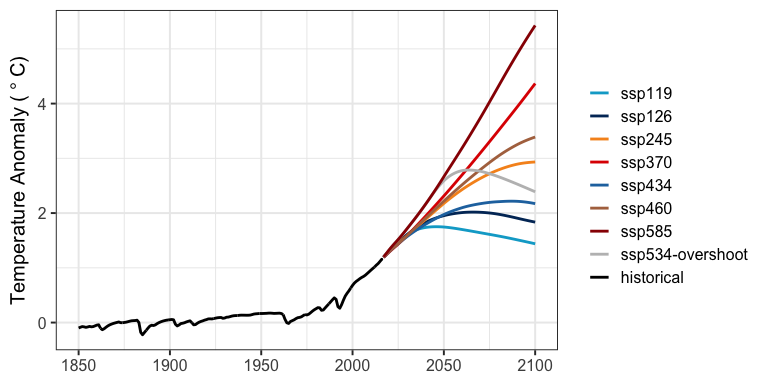
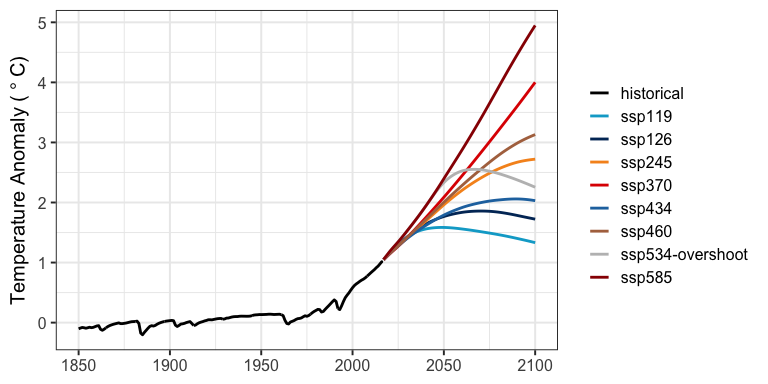
Update the version number (#732)
* Update the version number
* Remove the line width ggplot warning

diff --git a/inst/include/h_util.hpp b/inst/include/h_util.hpp
@@ -26,7 +26,7 @@
  * \brief The model version number to be included in logs and outputs.
  * \note  Manually update the git tag to match this.
  */
-#define MODEL_VERSION "3.1.1"
+#define MODEL_VERSION "3.2.0"
 
 #define OUTPUT_DIRECTORY "output/"
 

diff --git a/NEWS.md b/NEWS.md
@@ -1,3 +1,9 @@
+# hector 3.2.0 
+
+* Correct aerosol forcing coefficients based on Zelinka et al. (2023)
+* Enable permafrost module and recalibrate model's default parameterization
+
+
 # hector 3.1.1 
 
 Return global mean surface temperature as a Hector output.
